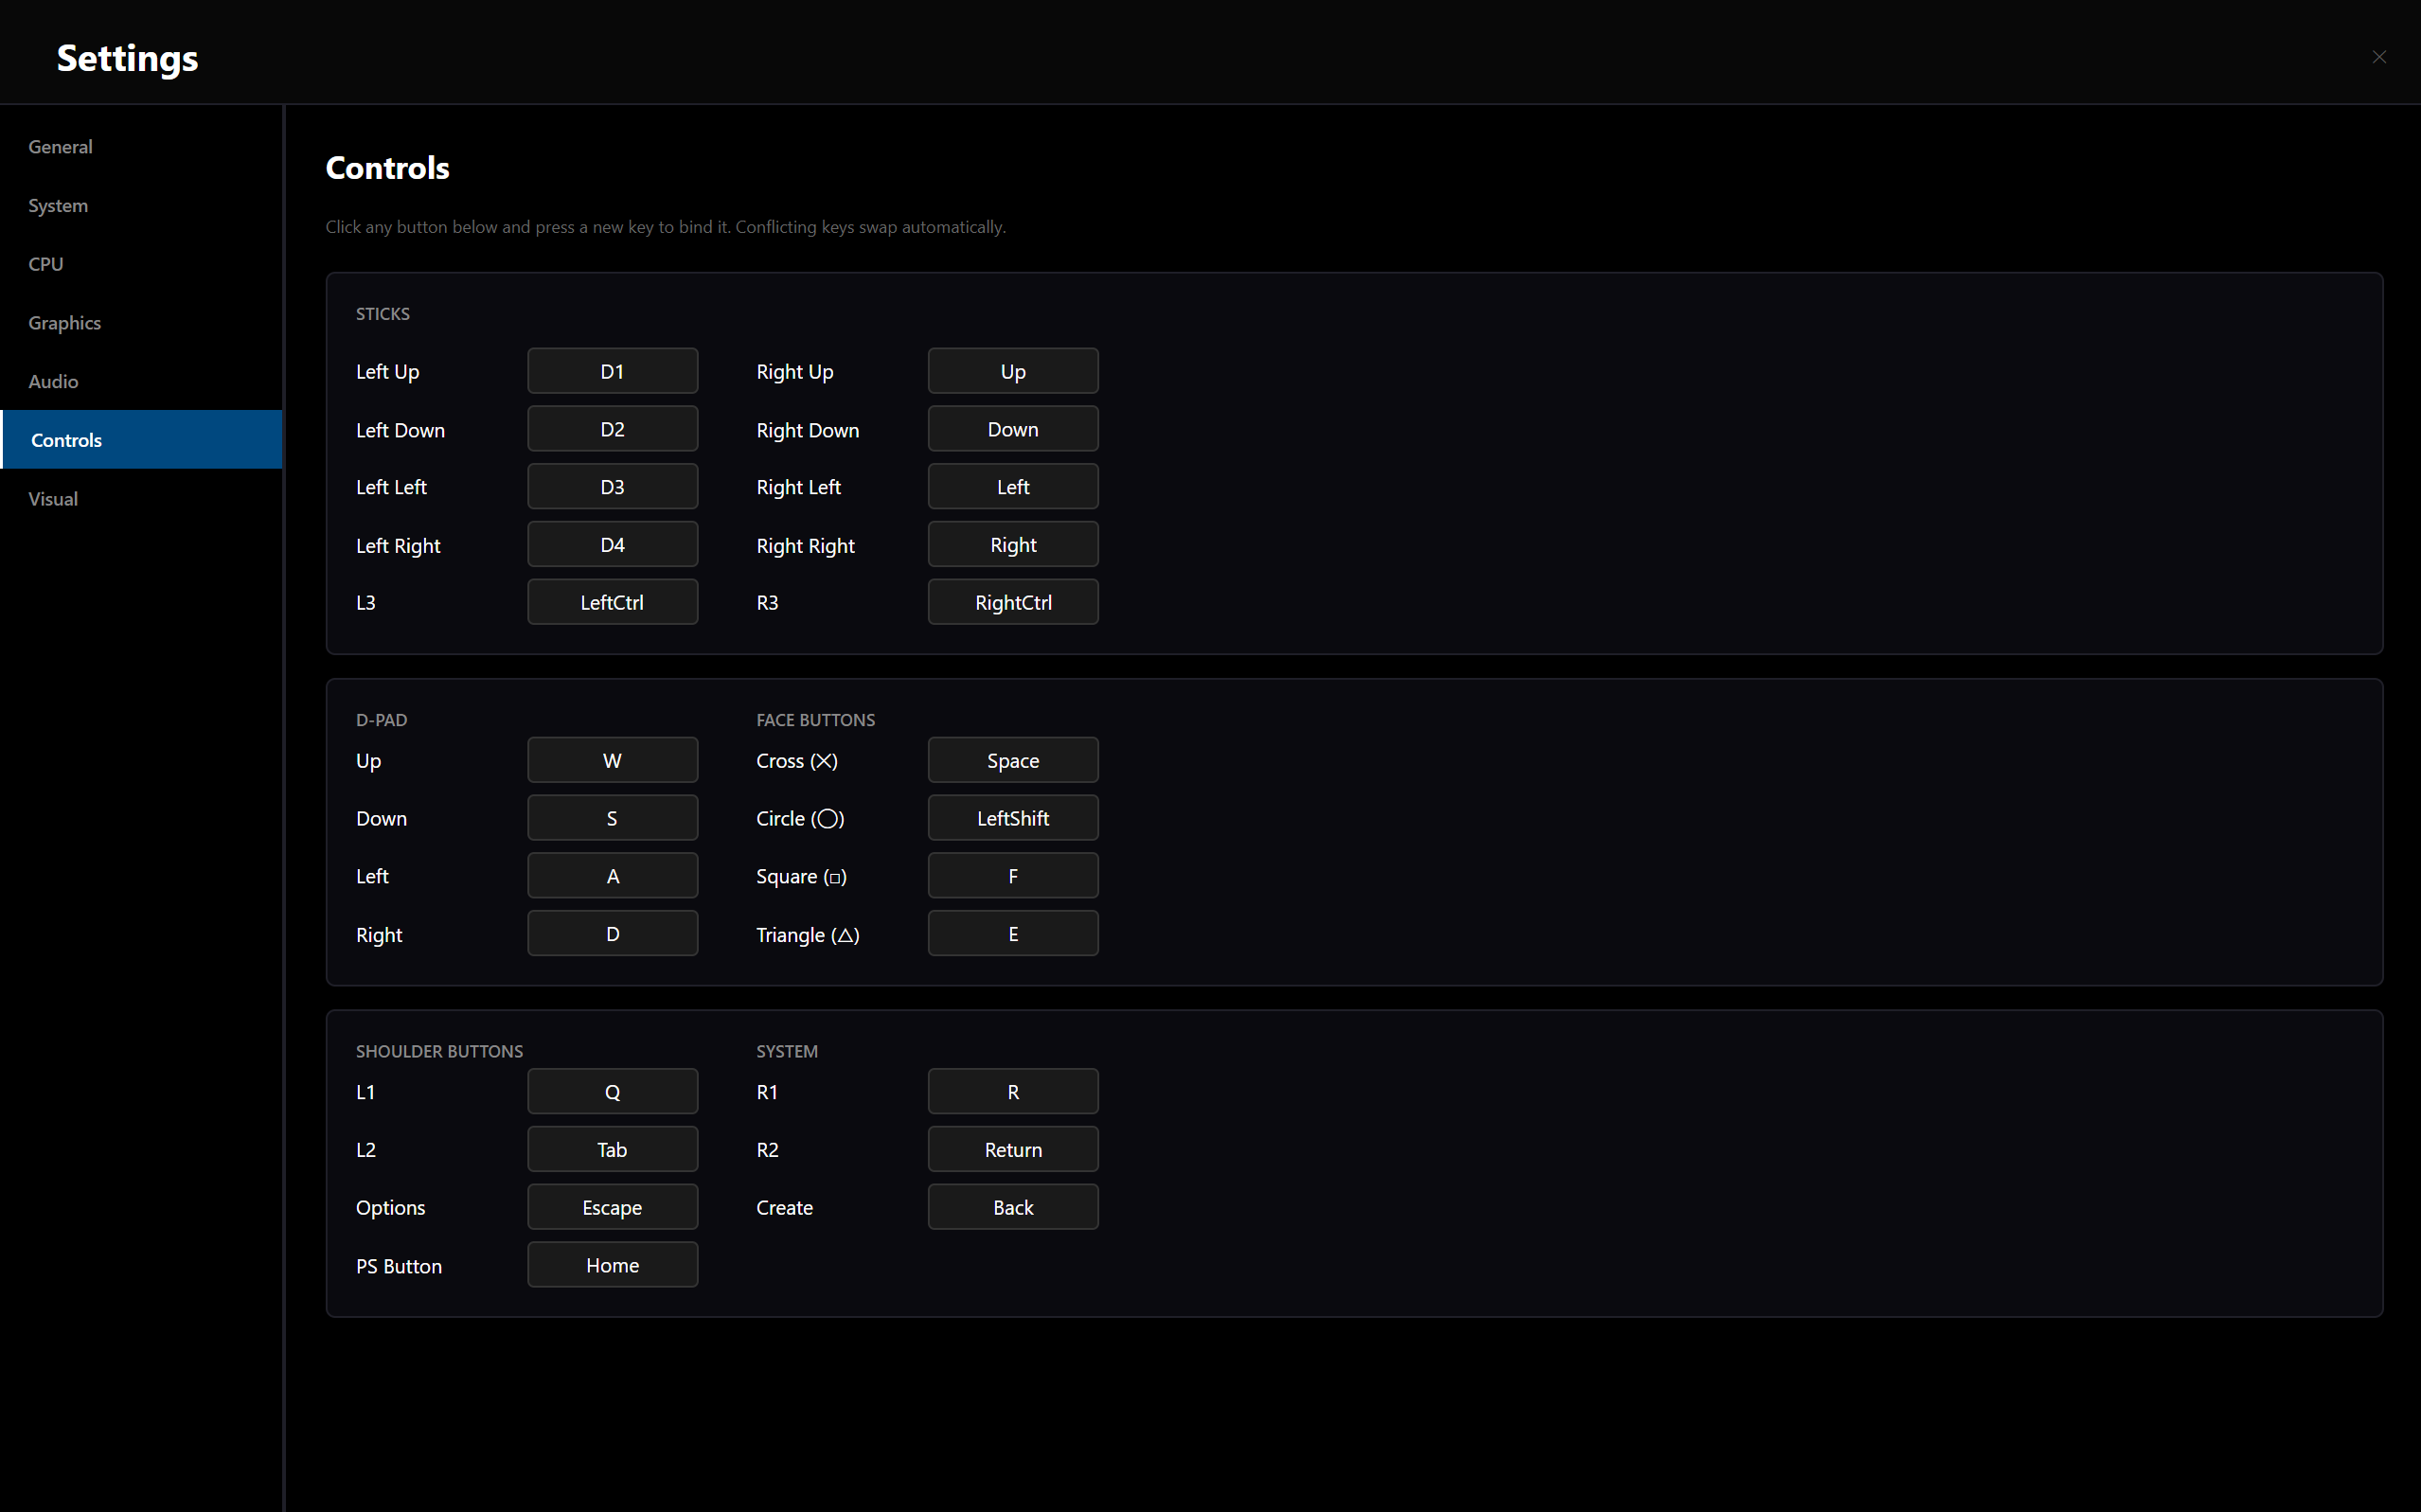
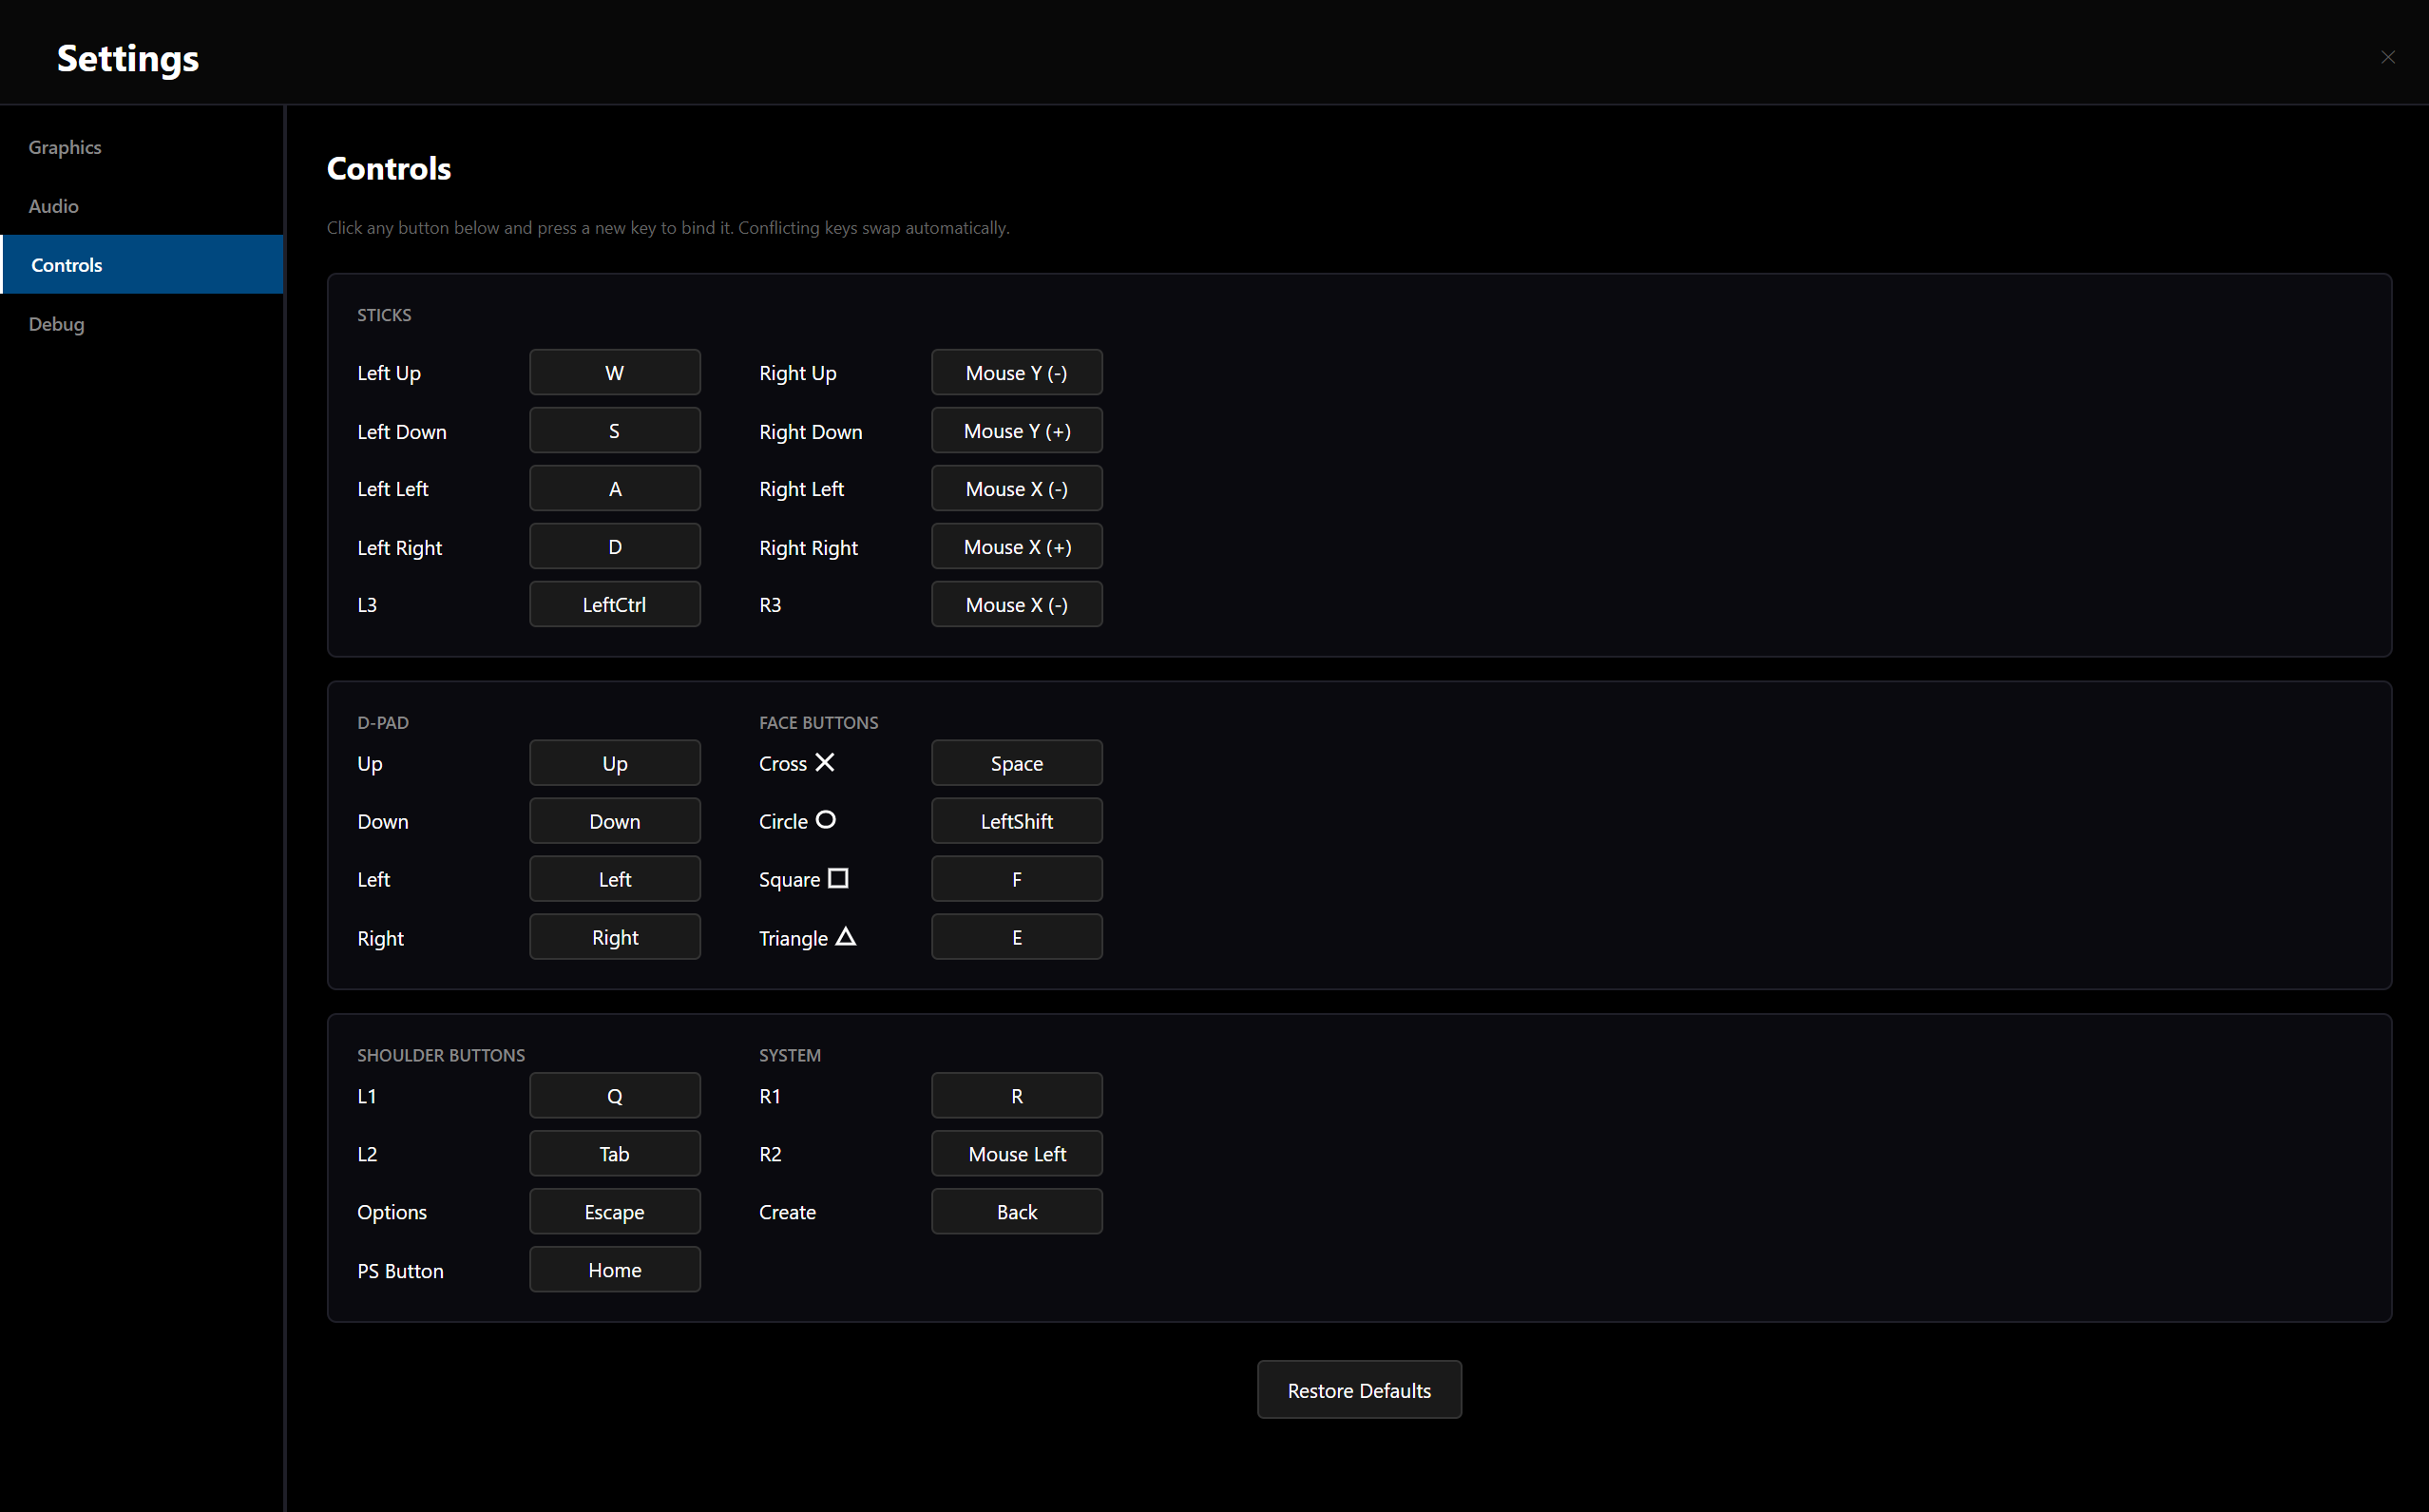
WIP build, enhanced keyboard control support, performance improvements from sharepmu, independent work on unity engine games

diff --git a/src/CraziiEmu.UI/MainWindow.axaml.cs b/src/CraziiEmu.UI/MainWindow.axaml.cs
@@ -458,23 +458,15 @@ public partial class MainWindow : Window
 
     private void OnGlobalPointerMoved(object? sender, PointerEventArgs e)
     {
-        if (_bindingButton != null && _bindingProperty.HasValue)
-        {
-            var currentPos = e.GetPosition(this);
-            if (_lastMousePos != default)
-            {
-                var dx = currentPos.X - _lastMousePos.X;
-                var dy = currentPos.Y - _lastMousePos.Y;
-                if (Math.Abs(dx) > 10) ApplyBinding(dx > 0 ? InputMap.MouseXPos : InputMap.MouseXNeg);
-                else if (Math.Abs(dy) > 10) ApplyBinding(dy > 0 ? InputMap.MouseYPos : InputMap.MouseYNeg);
-            }
-            _lastMousePos = currentPos;
-            e.Handled = true;
-        }
-        else
-        {
-            _lastMousePos = e.GetPosition(this);
-        }
+        // Removed mouse movement bindings per user request
+        _lastMousePos = e.GetPosition(this);
+    }
+
+    private void OnRestoreDefaultControlsClicked(object? sender, RoutedEventArgs e)
+    {
+        _controllerConfig.SetGlobalDefaults();
+        _controllerConfig.SaveToBackend();
+        InitializeBindings();
     }
 
     private void ApplyBinding(int newKey)
@@ -896,6 +888,17 @@ public partial class MainWindow : Window
     {
         var config = CraziiEmuConfig.Instance;
         
+        if (config.UiFullscreenOnStartup)
+        {
+            WindowState = Avalonia.Controls.WindowState.FullScreen;
+        }
+
+        ChkUiFullscreen.IsChecked = config.UiFullscreenOnStartup;
+        ChkUiFullscreen.IsCheckedChanged += (s, e) => 
+        { 
+            config.UiFullscreenOnStartup = ChkUiFullscreen.IsChecked == true; 
+            config.Save(); 
+        };
 
         CmbGraphicsApi.SelectedIndex = config.GraphicsApi == "OpenGL" ? 1 : 0;
         CmbGraphicsApi.SelectionChanged += (s, e) => 

diff --git a/src/CraziiEmu.UI/Input/ControllerConfig.cs b/src/CraziiEmu.UI/Input/ControllerConfig.cs
@@ -18,6 +18,41 @@ public class ControllerConfig
         Bindings = new Dictionary<PsControllerButton, int>();
     }
 
+    public void SetGlobalDefaults()
+    {
+        Bindings[PsControllerButton.Cross] = 0x20; // Space
+        Bindings[PsControllerButton.Circle] = 0xA0; // LShift
+        Bindings[PsControllerButton.Square] = 0x46; // F
+        Bindings[PsControllerButton.Triangle] = 0x45; // E
+
+        Bindings[PsControllerButton.L1] = 0x51; // Q
+        Bindings[PsControllerButton.R1] = 0x52; // R
+        Bindings[PsControllerButton.L2] = 0x09; // Tab
+        Bindings[PsControllerButton.R2] = InputMap.MouseLeft; // LMB
+
+        Bindings[PsControllerButton.DpadUp] = 0x26; // Up Arrow
+        Bindings[PsControllerButton.DpadDown] = 0x28; // Down Arrow
+        Bindings[PsControllerButton.DpadLeft] = 0x25; // Left Arrow
+        Bindings[PsControllerButton.DpadRight] = 0x27; // Right Arrow
+
+        Bindings[PsControllerButton.LeftStickUp] = 0x57; // W
+        Bindings[PsControllerButton.LeftStickDown] = 0x53; // S
+        Bindings[PsControllerButton.LeftStickLeft] = 0x41; // A
+        Bindings[PsControllerButton.LeftStickRight] = 0x44; // D
+
+        Bindings[PsControllerButton.RightStickUp] = InputMap.MouseYNeg;
+        Bindings[PsControllerButton.RightStickDown] = InputMap.MouseYPos;
+        Bindings[PsControllerButton.RightStickLeft] = InputMap.MouseXNeg;
+        Bindings[PsControllerButton.RightStickRight] = InputMap.MouseXPos;
+
+        Bindings[PsControllerButton.Options] = 0x1B; // Esc
+        Bindings[PsControllerButton.Create] = 0x08; // Backspace
+        Bindings[PsControllerButton.PsButton] = 0x24; // Home
+
+        if (!Bindings.ContainsKey(PsControllerButton.L3)) Bindings[PsControllerButton.L3] = 0x43; // C
+        if (!Bindings.ContainsKey(PsControllerButton.R3)) Bindings[PsControllerButton.R3] = 0x56; // V
+    }
+
     /// <summary>
     /// Updates the backend CraziiEmuConfig with the current bindings.
     /// </summary>

diff --git a/src/CraziiEmu.UI/ConfigWindow.axaml.cs b/src/CraziiEmu.UI/ConfigWindow.axaml.cs
@@ -215,23 +215,15 @@ public partial class ConfigWindow : Window
 
     private void OnGlobalPointerMoved(object? sender, PointerEventArgs e)
     {
-        if (_bindingButton != null && _bindingProperty.HasValue)
-        {
-            var currentPos = e.GetPosition(this);
-            if (_lastMousePos != default)
-            {
-                var dx = currentPos.X - _lastMousePos.X;
-                var dy = currentPos.Y - _lastMousePos.Y;
-                if (Math.Abs(dx) > 10) ApplyBinding(dx > 0 ? InputMap.MouseXPos : InputMap.MouseXNeg);
-                else if (Math.Abs(dy) > 10) ApplyBinding(dy > 0 ? InputMap.MouseYPos : InputMap.MouseYNeg);
-            }
-            _lastMousePos = currentPos;
-            e.Handled = true;
-        }
-        else
-        {
-            _lastMousePos = e.GetPosition(this);
-        }
+        // Removed mouse movement bindings per user request
+        _lastMousePos = e.GetPosition(this);
+    }
+
+    private void OnRestoreDefaultControlsClicked(object? sender, RoutedEventArgs e)
+    {
+        _controllerConfig.SetGlobalDefaults();
+        _controllerConfig.SaveToBackend();
+        InitializeBindings();
     }
 
     private void ApplyBinding(int newKey)

diff --git a/src/CraziiEmu.Libs/VideoOut/VulkanVideoPresenter.cs b/src/CraziiEmu.Libs/VideoOut/VulkanVideoPresenter.cs
@@ -3087,6 +3087,7 @@ private VkBuffer[] _overlayStagingBuffers = [];
             options.VSync = true;
             options.FramesPerSecond = 60;
             options.UpdatesPerSecond = 60;
+            options.WindowState = WindowState.Fullscreen;
             _window = Window.Create(options);
             _window.Load += Initialize;
             _window.Render += Render;
@@ -3143,7 +3144,20 @@ private VkBuffer[] _overlayStagingBuffers = [];
                 LogGlfwPlatformInUse();
                 try
                 {
-                    Pad.HostWindowInput.Attach(_window.CreateInput());
+                    var inputContext = _window.CreateInput();
+                    Pad.HostWindowInput.Attach(inputContext);
+                    foreach (var kb in inputContext.Keyboards)
+                    {
+                        kb.KeyDown += (_, key, _) =>
+                        {
+                            if (key == Silk.NET.Input.Key.F11)
+                            {
+                                _window.WindowState = _window.WindowState == WindowState.Fullscreen 
+                                    ? WindowState.Normal 
+                                    : WindowState.Fullscreen;
+                            }
+                        };
+                    }
                     Console.Error.WriteLine("[LOADER][INFO] Window keyboard input attached for pad emulation.");
                 }
                 catch (Exception exception)

diff --git a/src/CraziiEmu.HLE/Configuration/CraziiEmuConfig.cs b/src/CraziiEmu.HLE/Configuration/CraziiEmuConfig.cs
@@ -35,6 +35,7 @@ public class CraziiEmuConfig
 
     public string GraphicsApi { get; set; } = "Vulkan";
     public float ResolutionScale { get; set; } = 1.0f;
+    public bool UiFullscreenOnStartup { get; set; } = false;
     public static void Load()
     {
         try

diff --git a/README.md b/README.md
@@ -1,127 +1,136 @@
-# Project craziiEmu
+<div align="center">
+  <img src="./assets/images/logo.png" width="28%" alt="CraziiEmu Logo"/>
+  <h1>CraziiEmu</h1>
+  <p><strong>An experimental PlayStation 5 compatibility layer and research platform built with C# and .NET.</strong></p>
 
-<p align="center">
-  <img src="./assets/images/logo.png" width="30%" height="30%" alt="craziiEmu Logo" />
-</p>
-
-<p align="center">
-  <strong>An experimental, high-contrast PlayStation 5 research platform and compatibility layer.</strong>
-</p>
+  ![Platform](https://img.shields.io/badge/Platform-Windows%20x64-blue)
+  ![Framework](https://img.shields.io/badge/.NET-10-purple)
+  ![Graphics](https://img.shields.io/badge/Graphics-Vulkan-orange)
+  ![License](https://img.shields.io/badge/License-GPL--2.0-green)
+</div>
 
 ---
 
 > [!WARNING]  
-> **ANTI-PIRACY & INTELLECTUAL PROPERTY DISCLAIMER**  
-> *   **Project craziiEmu strictly condemns the use of software piracy, copyrighted hacks, and unauthorized game distribution.** 
-> *   The use of pirated software, leaked keys, or copyrighted assets is strictly not entertained, supported, or tolerated by this project.
-> *   This is an independent, non-profit research and educational project built on top of sharpemu, focused on studying microarchitecture and systems virtualization.
-> *   This repository does **not** contain or distribute any copyrighted Sony system firmware, proprietary BIOS, cryptographic keys, or official PlayStation assets. Users must provide their own legally obtained, decrypted system files and game dumps extracted from hardware they physically own.
+> ### 🧪 Experimental Software
+> CraziiEmu is an early-stage PlayStation 5 emulator intended for research, reverse engineering, and emulator development. Compatibility is currently limited, many kernel services remain incomplete, and crashes or missing functionality are expected.
 
-> [!WARNING]  
-> **GRAPHICS API COMPATIBILITY STATUS**  
-> *   **Vulkan:** Highly recommended and stable. It serves as the primary presentation target for graphics hardware rendering.
-> *   **OpenGL:** Currently supported as a legacy presentation fallback, but is considered **unstable and may experience crashes** under heavy rendering workloads.
-
----
-
-## Overview
-
-**Project craziiEmu** is an experimental PlayStation 5 compatibility layer and virtual machine emulator built entirely in C# on modern .NET. 
-
-The name **craziiEmu** represents a dual identity: **crazii** (derived from my online handle `crazii`) merged with **Emu** (retaining the naming heritage of the original `sharpemu` repository as a direct sign of respect to the upstream codebase and its creator).
-
-This project is built directly on top of the excellent groundwork laid by the open-source **[sharpemu](https://github.com/par274/sharpemu)** emulator project. Our focus is on optimizing memory management bounds, standardizing high-level operating system system calls (HLE), and introducing a premium, console-like desktop experience for research testing.
-
-Currently, development and compilation primarily target 64-bit Windows systems (refer original developer page).
+> [!IMPORTANT]  
+> ### ⚖️ Legal Notice
+> CraziiEmu does **not** include or distribute:
+> * PlayStation 5 firmware or Sony proprietary libraries
+> * Cryptographic keys, game content, or copyrighted assets
+> 
+> Users are strictly responsible for supplying legally obtained files extracted from hardware they own. **This project does not support piracy.**
 
 ---
 
-## Key Features
+## 📖 Overview
 
-### 🖥️ Premium Console-Like Desktop GUI (Avalonia UI)
-Instead of a standard, cluttered desktop window, `craziiEmu` features a highly custom, minimalist, dark-themed console dashboard designed natively using **Avalonia UI**:
-*   **Fluid Game Carousel:** A horizontally scrolling, responsive card system representing your executable library, modeled directly after modern console interfaces.
-*   **Custom Brand Integration:** Displays the project's custom compiled identity and boot splash screen cleanly.
-*   **On-Demand Ambient Particles:** Integrates an active, lightweight background rendering control that draws subtle, floating physics-based dust particles updating at 60 FPS.
-*   **Dynamic Wallpaper & VRAM Blitting:** Automatically maps the game's native background artwork assets (`pic1.png`) dynamically to the dashboard when focused, rendering color sweeps with high contrast.
-*   **Real-time Log Console:** A toggleable, built-in diagnostic terminal pane at the bottom of the dashboard that streams active CPU tracing, symbol relocation logs, and system alerts.
-*   **Settings Configuration Dialog:** A dedicated, clean settings menu to configure directory paths, choose CPU accuracy modes (Accurate vs. Fast/Native), and select graphics devices.
-*   **Proper fullscreen support:** The emulator can now run games with fullscreen functionality. F11 acts as fullscreen toggle.
+**CraziiEmu** is an experimental PlayStation 5 compatibility layer written entirely in C# using modern .NET. 
 
-### 🎮 Advanced Keyboard & Controller Mapping
-*   **Dynamic Customization:** Allows users to interactively map any physical keyboard key directly to virtual PlayStation controller inputs.
-*   **Duplicate-Swapping Conflict Resolution:** If you assign a key that is already mapped to another button, the system automatically swaps the two bindings in memory, preventing double-bind conflicts.
-*   **Broad Controller Support:** Natively supports standard controller inputs (including DualShock 3, DualShock 4, DualSense, and Xbox controllers) mapped via local XInput polling.
+Built upon the excellent open-source foundation of the **[SharpEmu](https://github.com/par274/sharpemu)** project, CraziiEmu extends the architecture with a highly-polished desktop frontend, runtime optimizations, expanded High-Level Emulation (HLE) implementations, and ongoing compatibility work. 
 
-### 🧠 Dual-Mode CPU Execution Engine
-`craziiEmu` features a highly advanced, dual-mode execution pipeline. Users can toggle between accuracy and raw speed inside the System Configuration window:
-*   **Accurate Mode (Software Interpreter):** An instruction-by-instruction decoder powered by the `Iced` library, useful for rigorous step-by-step debugging and absolute trace diagnostics. It decodes standard arithmetic, stack frames, relative jumps, and loop control instructions (`push`, `pop`, `cmp`, conditional jumps).
-*   **Fast Mode (Direct/Native Execution):** Bypasses the software interpreter entirely and executes guest x86-64 code directly on the host CPU using the native `DirectExecutionBackend` at full hardware speed. This bypasses the instruction limit of the interpreter, allowing fully optimized compiler binaries to execute.
-
-### ⚙️ Core Virtualization & Emulation Engine
-*   **Dual ELF & SELF Loading:** Seamlessly detects and parses standard 64-bit ELF binaries as well as Sony's custom, compressed `SELF` (`SCE\0`) container formats, extracting entry points natively.
-*   **Dynamic Linker & Relocation Engine:** Parses `PT_DYNAMIC` program headers, recursively loads dependent `.sprx` system modules, and patches complex standard pointer relocations (`R_X86_64_RELATIVE`, `R_X86_64_GLOB_DAT`, `R_X86_64_JUMP_SLOT`).
-*   **Unmanaged memory manager (VMM):** Allocates a massive 64GB contiguous address space pool. Features a pure **native x86-64 assembly page-fault VEH trampoline** to bypass strict .NET 10 hardware exception thread-boundary blocks.
-*   **Page-Aligned Address Translation:** Implements a lightweight, TLB-style translation Page Table inside the memory manager to safely map sparse high-memory guest ranges (like the `0x700000000000` system call table) to safe physical RAM offsets.
-*   **PS5 `libkernel` HLE Stubs:** Houses completed C# system-call implementations for core OS operations, including thread sleeping (`sceKernelUsleep`), system time (`sceKernelGettimeofday`), and memory allocation (`sceKernelAllocateDirectMemory`).
+Currently, development and compilation natively target **Windows x64**.
 
 ---
 
-## Interface & Mapping Preview
+## ✨ Features
 
-<p align="center">
-  <em>Main Dashboard (Games Library Tab)</em><br/>
-  <img src="./assets/images/dashboard.png" width="80%" alt="craziiEmu Dashboard" />
-</p>
+### 🖥️ Premium Desktop Interface
+Built using **Avalonia UI**, the frontend provides a console-like experience rather than a traditional windowed debugger:
+- **Modern, Dark-Themed Dashboard:** A highly responsive, console-inspired scrolling game library.
+- **Dynamic Theming:** Seamlessly maps native background artwork (`pic1.png`) from your game library, adapting the interface on the fly.
+- **Integrated Console:** A real-time, built-in diagnostic logging terminal for trace monitoring.
+- **Configurable Settings:** Manage graphics, audio, debugging, and comprehensive controller configurations all within the UI.
+- **Fullscreen Experience:** The emulator natively defaults to fullscreen mode, seamlessly toggled via `F11`.
 
-<p align="center">
-  <em>Advanced Key-Mapping Controller Configuration</em><br/>
-  <img src="./assets/images/controls.png" width="80%" alt="craziiEmu Controls" />
-</p>
+### 🎮 Advanced Input Mapping
+- Native support for Keyboard, DualSense, DualShock 4, and Xbox controllers.
+- Interactive custom key mapping and dynamic controller remapping.
+- **Conflict Resolution:** Automatically swaps duplicate bindings in memory to prevent input overlap.
+
+### ⚙️ Core Architecture & Runtime
+- **Direct Execution Backend:** Bypasses software interpretation entirely, executing guest x86-64 code directly on the host CPU for maximum hardware speed.
+- **Advanced Executable Loading:** Detects and parses both standard 64-bit ELF binaries and Sony's compressed SELF (`SCE\0`) containers, automatically extracting entry points.
+- **Dynamic Linker:** Parses `PT_DYNAMIC` program headers, recursively loads dependent `.sprx` modules, and resolves complex relocations (`R_X86_64_RELATIVE`, `R_X86_64_GLOB_DAT`, `R_X86_64_JUMP_SLOT`).
+
+### 🧠 Memory & HLE Virtualization
+- **Virtual Memory Manager:** Allocates a massive guest virtual address space utilizing page-based allocation.
+- **Native VEH Trampoline:** Features native x86-64 assembly page-fault handling to safely bridge Windows hardware exceptions.
+- **`libkernel` HLE Stubs:** Houses active implementations for critical PlayStation OS services, including thread management, memory allocation, synchronization primitives, and sleep/timing functions.
+
+### 🎥 Graphics (Vulkan)
+Graphics presentation is built exclusively on **Vulkan**, offering a high-performance rendering pathway. Implementations include swapchain creation, direct video output, and splash image presentation. *(Internal resolution scaling is planned for future updates).*
 
 ---
 
-## Build & Installation
+## 🖼️ Interface Preview
 
-To compile and run `craziiEmu` natively on your computer:
+<div align="center">
+  <p><em>Main Dashboard (Games Library Tab)</em></p>
+  <img src="./assets/images/dashboard.png" width="85%" alt="CraziiEmu Dashboard">
+
+  <br><br>
+
+  <p><em>Advanced Controller Configuration</em></p>
+  <img src="./assets/images/controls.png" width="85%" alt="CraziiEmu Controls">
+</div>
+
+---
+
+## 🛠️ Build & Installation
 
 ### Prerequisites
-*   **.NET 10 SDK** (or newer)
-*   A 64-bit Windows operating system (Windows 11 recommended)
+* **.NET 10 SDK** (or newer)
+* **Windows x64** (Windows 11 recommended)
+* A Vulkan-compatible GPU
 
 ### Compilation Steps
-1.  Clone the repository:
-    ```bash
-    git clone https://github.com/yourusername/craziiEmu.git
-    cd craziiEmu
-    ```
-2.  Build the solution:
-    ```bash
-    dotnet build -c Release
-    ```
-3.  Publish as a standalone, single-file native Windows executable:
-    ```bash
-    dotnet publish src/CraziiEmu.UI/CraziiEmu.UI.csproj -c Release -r win-x64 --self-contained true -p:PublishSingleFile=true -p:PublishTrimmed=false
-    ```
-4.  The final, standalone binary **`CraziiEmu.UI.exe`** will be located in the `artifacts/publish/` folder.
+1. **Clone the repository:**
+   ```bash
+   git clone https://github.com/craze1pirate/craziiEmu.git
+   cd craziiEmu
+   ```
+2. **Build the solution:**
+   ```bash
+   dotnet build -c Release
+   ```
+3. **Run directly via CLI:**
+   ```bash
+   dotnet run --project src/CraziiEmu.UI
+   ```
+4. **Publish as a standalone native executable:**
+   ```bash
+   dotnet publish src/CraziiEmu.UI/CraziiEmu.UI.csproj -c Release -r win-x64 --self-contained true -p:PublishSingleFile=true
+   ```
 
 ---
 
-## Community Feedback
-
-This is an early-stage experimental research project. Community feedback, detailed bug reports, and pull requests are highly appreciated. If you encounter missing instructions or unmapped system calls, please open an issue in the tracker with your absolute terminal log trace.
-
----
-
-## Special Thanks
-
-*   **[par274 / sharpemu](https://github.com/par274/sharpemu):** This project is built directly on top of `sharpemu`'s original source code. We are immensely grateful to the original creator for providing the brilliant architectural codebase and reverse-engineering research.
-*   **[ShadPS4](https://github.com/shadps4-emu/shadPS4):** Extremely helpful for studying the PlayStation shared library and kernel behaviors.
-*   **Ryujinx:** Provided outstanding design references for high-performance C# filesystem and unmanaged memory abstractions.
+## 🚀 Roadmap
+CraziiEmu is under active development. Current and planned priorities include:
+- Expanding `libkernel` HLE coverage and boot compatibility.
+- Enhancing runtime stability and module loading.
+- Implementing internal graphics resolution scaling.
+- Audio backend improvements.
+- Expanding the integrated debugging toolset.
 
 ---
 
-## License
+## 🤝 Contributing
+Bug reports, pull requests, and reverse engineering research are highly welcome. 
+When opening an issue, please provide your **Build Version**, **OS/Hardware Specs**, the **Game/Executable** tested, and an absolute **Emulator Log Trace** or stack trace.
 
-This project is licensed under the terms of the **GNU General Public License v2.0 (GPL-2.0)**.
-See the [LICENSE](https://github.com/craze1pirate/craziiEmu/blob/main/LICENSE) file for details.
+---
+
+## 🙏 Acknowledgements
+Special thanks to the following projects for making this possible:
+- **[SharpEmu](https://github.com/par274/sharpemu)** — The original architectural foundation and initial research.
+- **[shadPS4](https://github.com/shadps4-emu/shadPS4)** — An invaluable reference for PlayStation 5 kernel and shared library behaviors.
+- **[Ryujinx](https://github.com/Ryujinx/Ryujinx)** — Inspiration for high-performance C# runtime and systems programming techniques.
+
+---
+
+## 📝 License
+CraziiEmu is licensed under the **GNU General Public License v2.0 (GPL-2.0)**. 
+See the [LICENSE](LICENSE) file for more information.